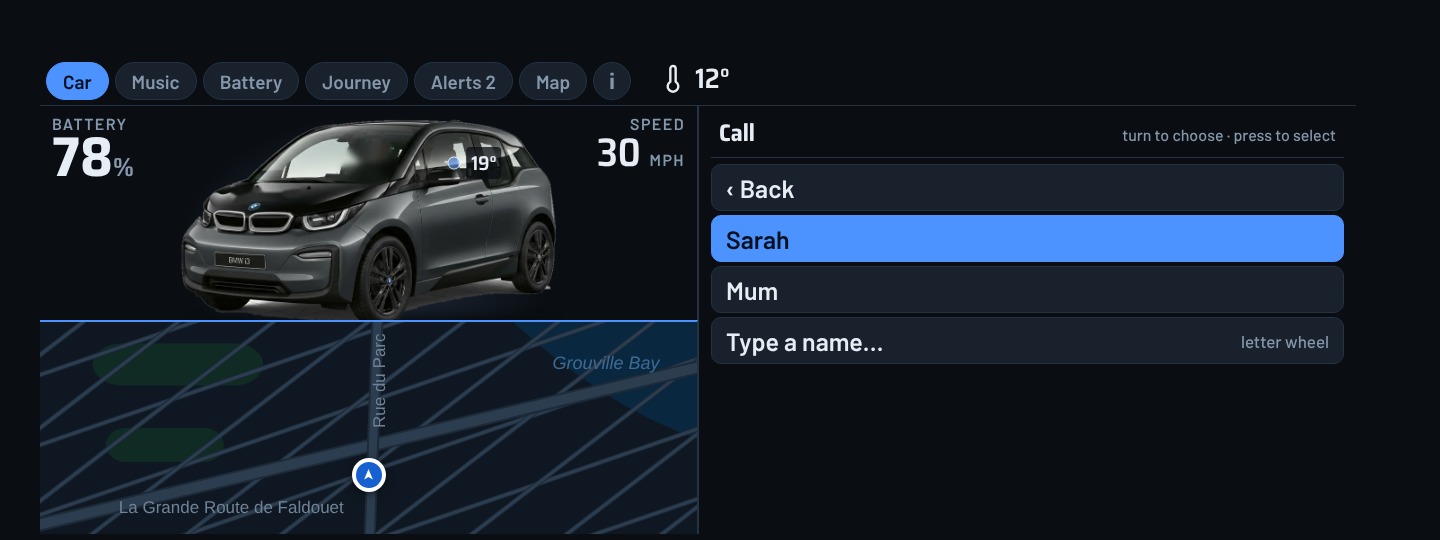
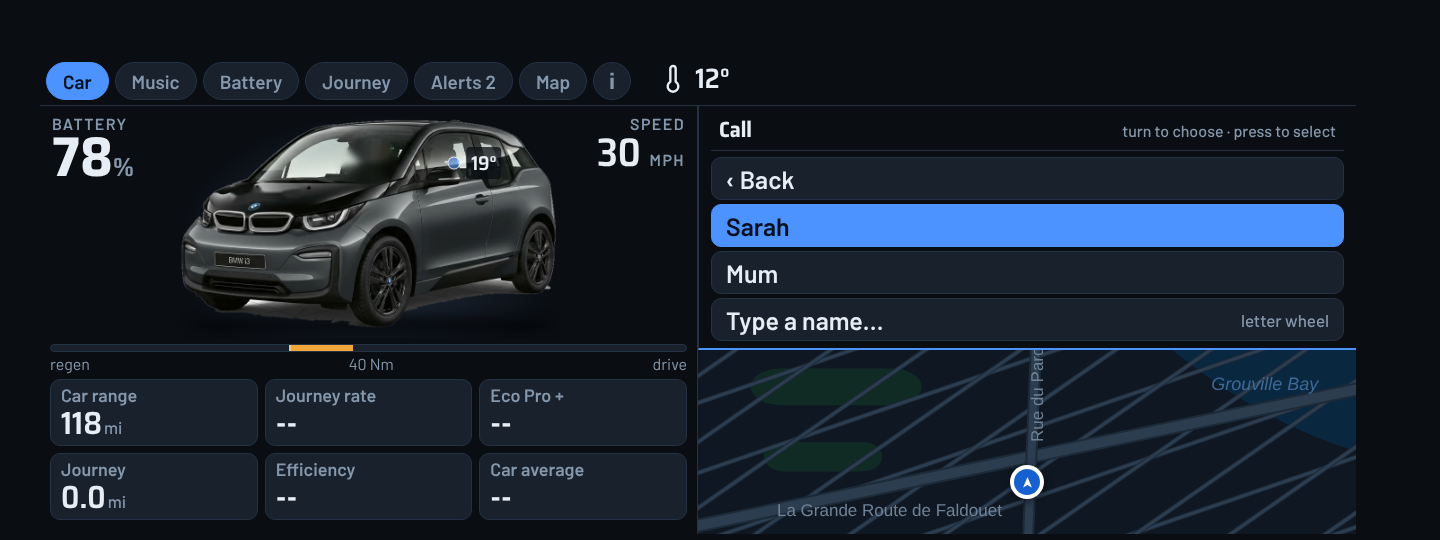
Menu at top right with the live map in the bottom right quarter
Claude-Session: https://claude.ai/code/session_012qQKmKQnTSeY3dbxDfNLy6

Changed region(s): [[0.0, 0.2074, 0.9688, 1.0], [0.9062, 0.9481, 0.9375, 1.0]]

diff --git a/app/src/main/assets/i3dash/index.html b/app/src/main/assets/i3dash/index.html
@@ -114,22 +114,20 @@ aside{position:relative;padding:8px 10px;display:flex;flex-direction:column;gap:
 .al-app{font:600 14px var(--f-b);letter-spacing:.06em;text-transform:uppercase;color:var(--muted)}
 .al-t{font:600 20px var(--f-b);white-space:nowrap;overflow:hidden;text-overflow:ellipsis}
 .al-x{font:500 16px var(--f-b);color:#c3cfdb;white-space:nowrap;overflow:hidden;text-overflow:ellipsis}
-.menu{position:absolute;top:0;right:0;bottom:0;width:50%;z-index:9;background:var(--bg);border-left:1px solid var(--line);padding:8px 12px;display:flex;flex-direction:column;gap:4px}
-.mt{display:flex;justify-content:space-between;align-items:baseline;font:700 24px var(--f-d);padding:0 8px 5px;border-bottom:1px solid var(--line);margin-bottom:2px}
+.menu{position:absolute;top:0;right:0;height:57%;width:50%;z-index:9;border-bottom:2px solid var(--accent);background:var(--bg);border-left:1px solid var(--line);padding:6px 12px;display:flex;flex-direction:column;gap:4px}
+.mt{display:flex;justify-content:space-between;align-items:baseline;font:700 22px var(--f-d);padding:0 8px 3px;border-bottom:1px solid var(--line);margin-bottom:2px}
 .mt small{font:500 16px var(--f-b);color:var(--muted)}
-.mi{height:47px;flex:none;border-radius:10px;padding:0 14px;display:flex;align-items:center;justify-content:space-between;gap:12px;font:600 25px var(--f-b);background:var(--panel2);border:1px solid var(--line)}
+.mi{height:43px;flex:none;border-radius:10px;padding:0 14px;display:flex;align-items:center;justify-content:space-between;gap:12px;font:600 25px var(--f-b);background:var(--panel2);border:1px solid var(--line)}
 .mi span{white-space:nowrap;overflow:hidden;text-overflow:ellipsis;min-width:0}
 .mi small{font:500 17px var(--f-b);color:var(--muted);white-space:nowrap;flex:none;max-width:45%;overflow:hidden;text-overflow:ellipsis}
 .mi b{font:700 26px var(--f-d);color:var(--muted);flex:none}
 .mi.on{background:var(--accent);border-color:var(--accent);color:var(--accent-ink)}.mi.on small,.mi.on b{color:var(--accent-ink)}
 .mi.dim{color:var(--muted);font-size:20px}
 .toast{position:absolute;left:50%;bottom:64px;transform:translateX(-50%);z-index:10;font:600 22px var(--f-b);background:var(--panel);border:1px solid var(--accent);border-radius:12px;padding:8px 18px;white-space:nowrap}
-/* while the menu is open the map stays live: bottom left quarter, or the left half on the Map page */
-.body.menuopen .nav{position:absolute;left:0;bottom:0;width:50%;height:50%;z-index:9;border-top:2px solid var(--accent);border-right:1px solid var(--line)}
-.body.wide.menuopen .nav{top:0;height:auto;border-top:0}
+/* while the menu is open the map stays live underneath it, in the bottom right quarter.
+   On the Map page the map keeps the whole screen and the menu sits over its top right corner */
+.body.menuopen:not(.wide) .nav{align-self:end;height:43%}
 .body.menuopen .np,.body.menuopen .mhint,.body.menuopen .pages,.body.menuopen .diag{display:none}
-.body.menuopen:not(.wide) .call{bottom:50%;padding:10px 26px;gap:6px}
-.body.menuopen:not(.wide) .call .ci{display:none}
 .body.menuopen:not(.wide) .turn{left:8px;top:8px;padding:5px 10px;max-width:78%}
 .body.menuopen:not(.wide) .turn svg{width:34px;height:34px}.body.menuopen:not(.wide) .turn .d{font-size:28px}.body.menuopen:not(.wide) .turn .i{font-size:18px}
 .body.menuopen:not(.wide) .eta{left:8px;bottom:8px;padding:4px 10px;gap:14px}.body.menuopen:not(.wide) .eta b{font-size:24px}.body.menuopen:not(.wide) .eta .lbl{font-size:12px}
@@ -461,7 +459,7 @@ function drawNowPlaying(){
   H('#np',`${artUrl?`<img src="${artUrl}" alt="">`:'<img alt="">'}<div class="x"><div class="t">${esc(m.title)}</div><div class="a">${esc(m.artist||'')}${m.app?' · '+esc(m.app):''}</div>${fresh?`<div class="a" style="color:var(--accent)">No sound? MEDIA › Bluetooth audio</div>`:''}</div><span class="st">${m.playing?'▶':'❚❚'}</span>`);
 }
 /* ---------- the menu: press the knob, turn to choose, press to select ---------- */
-const MENU_ROWS=7,MENU_IDLE_MS=20000;
+const MENU_ROWS=4,MENU_IDLE_MS=20000;
 let menu=null,menuTimer=0,toastTimer=0;
 function toast(t){const e=$('#toast');e.textContent=t;e.hidden=false;clearTimeout(toastTimer);toastTimer=setTimeout(()=>{e.hidden=true},3500)}
 function menuData(){let d={};try{d=JSON.parse(N.menu())||{}}catch(e){}return {places:d.places||[],recents:d.recents||[],contacts:d.contacts||[],videos:d.videos||[],canSeeContacts:!!d.canSeeContacts}}

diff --git a/CHANGELOG.md b/CHANGELOG.md
@@ -5,7 +5,7 @@ Newest first. The app is built automatically and published as `i3-dash.apk` on t
 
 ## 12 November 2026
 
-- **Map stays live with the menu open:** it moves to the bottom left quarter (the left half on the Map page) and keeps showing your position, next turn, arrival time and speed limit.
+- **Map stays live with the menu open:** the menu takes the top right and the map shrinks to the bottom right quarter beneath it, still showing your position, next turn, arrival time and speed limit. On the Map page the map keeps the whole screen.
 - **One place for everything (new, untested in the car):** the knob press now opens a menu inside the dash, where it used to jump to the car's own menu. Navigate, Call, Music, Video and Read alerts aloud are all there, and the knob scrolls and selects. Pressing on the Music page goes straight to music, and on the Map page straight to places.
 - **Straight in:** choosing i3D in the car opens the dash directly, with no menu screen first. The car entry is now named i3D.
 - **Calls:** a ringing call shows only Answer and Decline. When the car switches to its own phone screen as a call connects, i3D brings the dash back once.

diff --git a/docs/SCREENSHOTS.md b/docs/SCREENSHOTS.md
@@ -48,13 +48,13 @@ Press the knob to hang up.
 
 ## The menu
 
-Press the knob anywhere in the dash and the menu opens on the right. The map stays live in the bottom left, with your next turn, arrival time and the speed limit. Turn to choose, press to select. These are renders of the real menu.
+Press the knob anywhere in the dash and the menu opens at the top right. The map stays live underneath it, in the bottom right, with your next turn, arrival time and the speed limit. The menu shows four rows at a time and scrolls as you turn the knob. Turn to choose, press to select. These are renders of the real menu.
 
 ### While navigating
 ![Menu while navigating](screenshots/menu-nav.png)
 
 ### On the Map page
-The map keeps the left half.
+The map keeps the whole screen and the menu sits over its top right corner.
 ![Menu on the Map page](screenshots/menu-map.png)
 
 ### Main menu

diff --git a/README.md b/README.md
@@ -60,7 +60,7 @@ If it sits on "waiting for car connection", close the BMW Connected app, restart
 
 Everything happens inside the dash. Turn the iDrive knob to move between pages. Press the knob for the menu, turn to choose, and press to select. The menu closes by itself after 20 seconds.
 
-The map stays live while the menu is open. It moves to the bottom left with your next turn, arrival time and the speed limit, and goes back when the menu closes.
+The menu opens at the top right and shows four rows at a time. The map stays live underneath it, in the bottom right, with your next turn, arrival time and the speed limit. It goes back to full size when the menu closes.
 
 ![The menu while navigating](docs/screenshots/menu-nav.png)
 
